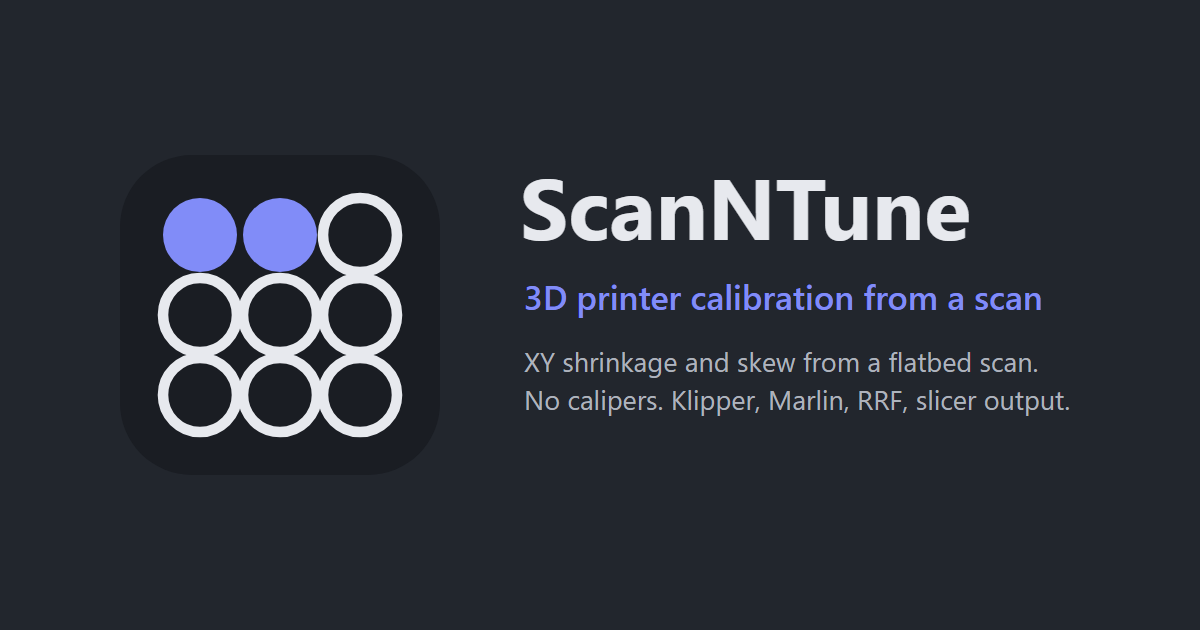
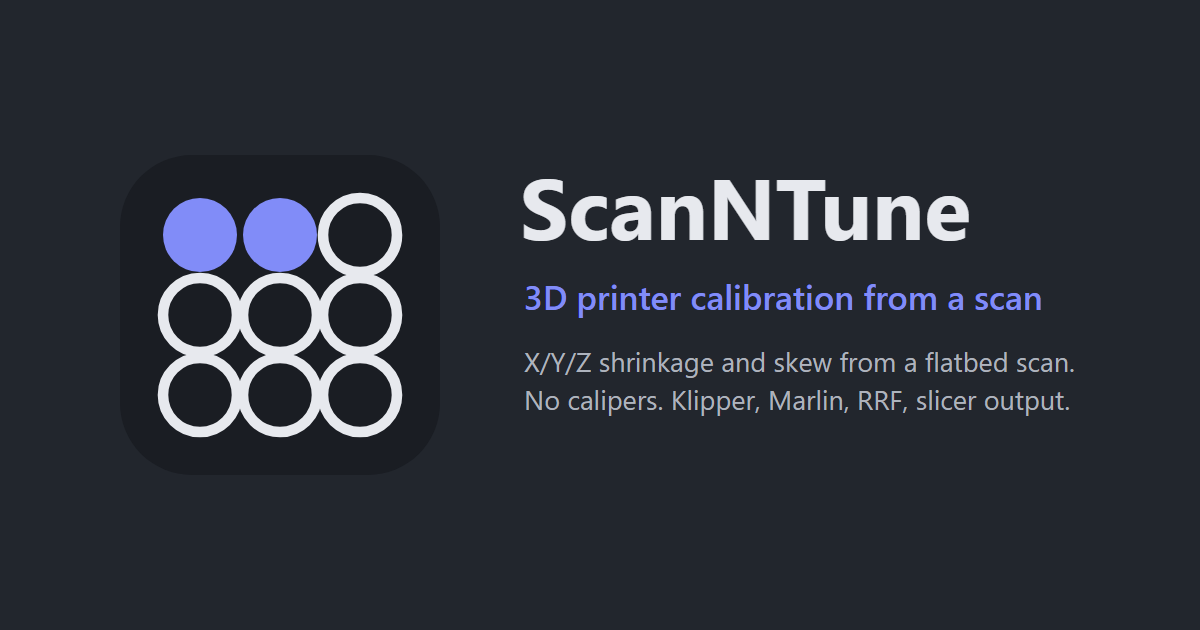
Fix SEO/social metadata to say X/Y/Z calibration, not just XY

Changed region(s): [[0.4317, 0.5429, 0.8942, 0.6032]]

diff --git a/web/index.html b/web/index.html
@@ -5,10 +5,10 @@
     <link rel="icon" type="image/svg+xml" href="/favicon.svg" />
     <meta name="viewport" content="width=device-width, initial-scale=1.0" />
 
-    <title>ScanNTune: 3D printer XY calibration from a flatbed scan</title>
+    <title>ScanNTune: 3D printer X/Y/Z calibration from a flatbed scan</title>
     <meta
       name="description"
-      content="Auto-calibrate your 3D printer's XY shrinkage and skew from a flatbed scan of a printed calibration coupon. No calipers: get ready-to-paste Klipper, Marlin, RepRapFirmware, and slicer corrections."
+      content="Auto-calibrate your 3D printer's X/Y/Z shrinkage and skew from a flatbed scan of a printed calibration coupon. No calipers: get ready-to-paste Klipper, Marlin, RepRapFirmware, and slicer corrections."
     />
     <meta name="robots" content="index, follow" />
     <link rel="canonical" href="https://scanntune.jaak0b.at/" />
@@ -17,10 +17,10 @@
     <meta property="og:type" content="website" />
     <meta property="og:site_name" content="ScanNTune" />
     <meta property="og:url" content="https://scanntune.jaak0b.at/" />
-    <meta property="og:title" content="ScanNTune: 3D printer XY calibration from a flatbed scan" />
+    <meta property="og:title" content="ScanNTune: 3D printer X/Y/Z calibration from a flatbed scan" />
     <meta
       property="og:description"
-      content="Auto-calibrate your 3D printer's XY shrinkage and skew from a flatbed scan of a printed calibration coupon. No calipers: get ready-to-paste firmware and slicer corrections."
+      content="Auto-calibrate your 3D printer's X/Y/Z shrinkage and skew from a flatbed scan of a printed calibration coupon. No calipers: get ready-to-paste firmware and slicer corrections."
     />
     <meta property="og:image" content="https://scanntune.jaak0b.at/og-image.png" />
     <meta property="og:image:type" content="image/png" />
@@ -29,10 +29,10 @@
     <meta property="og:image:alt" content="ScanNTune: 3D printer calibration from a flatbed scan" />
 
     <meta name="twitter:card" content="summary_large_image" />
-    <meta name="twitter:title" content="ScanNTune: 3D printer XY calibration from a flatbed scan" />
+    <meta name="twitter:title" content="ScanNTune: 3D printer X/Y/Z calibration from a flatbed scan" />
     <meta
       name="twitter:description"
-      content="Auto-calibrate your 3D printer's XY shrinkage and skew from a flatbed scan of a printed calibration coupon. No calipers needed."
+      content="Auto-calibrate your 3D printer's X/Y/Z shrinkage and skew from a flatbed scan of a printed calibration coupon. No calipers needed."
     />
     <meta name="twitter:image" content="https://scanntune.jaak0b.at/og-image.png" />
 
@@ -45,14 +45,14 @@
         "applicationCategory": "UtilitiesApplication",
         "operatingSystem": "Any (web browser)",
         "offers": { "@type": "Offer", "price": "0", "priceCurrency": "USD" },
-        "description": "Auto-calibrate a 3D printer's XY shrinkage and skew from a flatbed scan of a printed calibration coupon, with no caliper measurements. Reads ring geometry in the browser and emits ready-to-paste Klipper, Marlin, RepRapFirmware, and slicer corrections."
+        "description": "Auto-calibrate a 3D printer's X/Y/Z shrinkage and skew from a flatbed scan of a printed calibration coupon, with no caliper measurements. Reads ring geometry in the browser and emits ready-to-paste Klipper, Marlin, RepRapFirmware, and slicer corrections."
       }
     </script>
   </head>
   <body>
     <div id="app"></div>
     <noscript>
-      ScanNTune auto-calibrates a 3D printer's XY shrinkage and skew from a flatbed scan of a printed
+      ScanNTune auto-calibrates a 3D printer's X/Y/Z shrinkage and skew from a flatbed scan of a printed
       calibration coupon. It needs JavaScript to run: enable it to load the app.
     </noscript>
     <script type="module" src="/src/main.ts"></script>